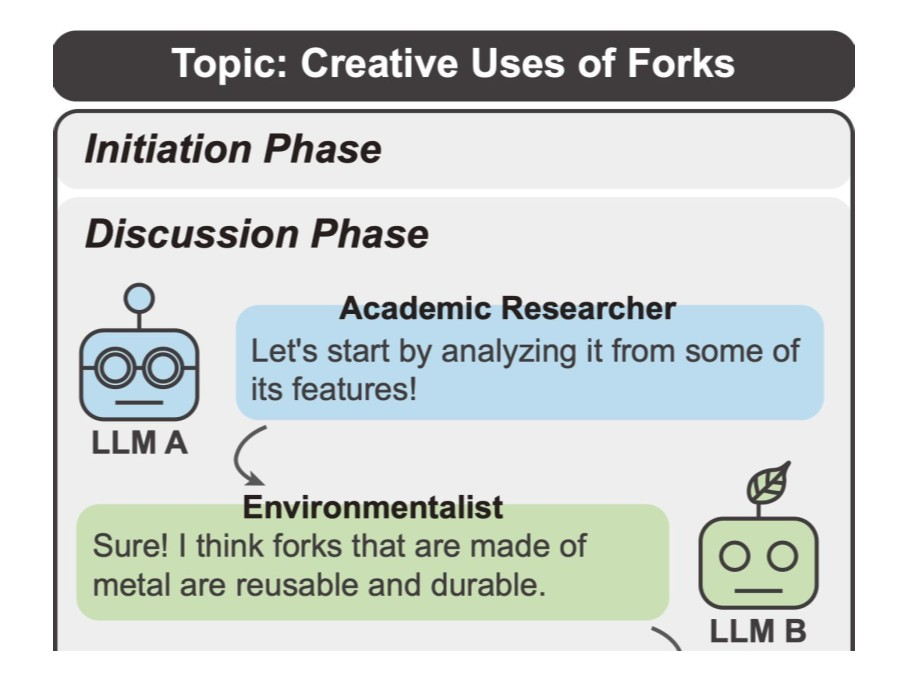
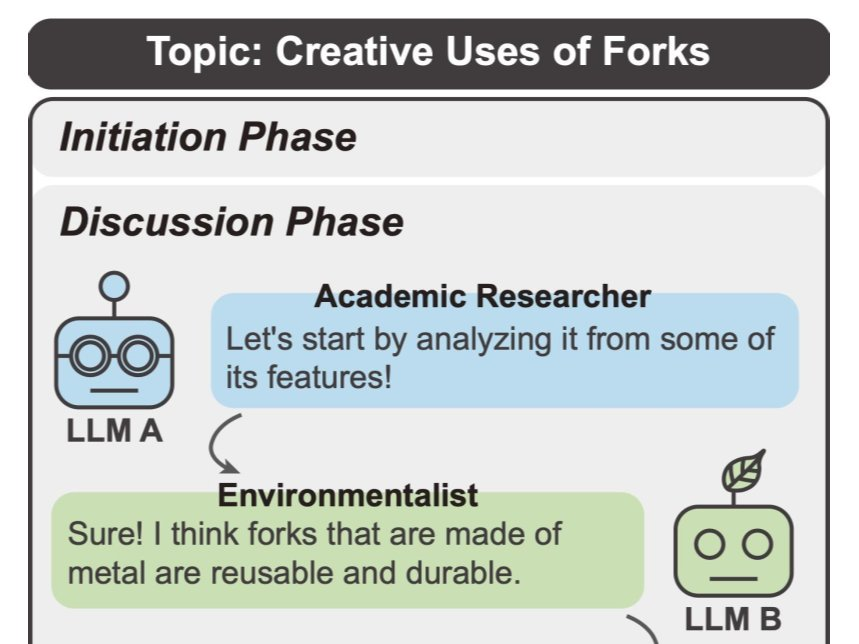
Polish layout from UI review: tap targets, radar labels, wraps, map popup, mobile menu dismissal

Changed region(s): [[0.0303, 0.0311, 0.9686, 1.0]]

diff --git a/src/components/Bouldering.tsx b/src/components/Bouldering.tsx
@@ -31,7 +31,7 @@ function RadarChart() {
   const data = styleRatings.map(({ value }, i) => { const p = point(value, i); return `${p.x},${p.y}` }).join(' ')
 
   return (
-    <svg viewBox={`-48 0 ${size + 96} ${size}`} className="w-full max-w-[420px]" role="img"
+    <svg viewBox={`-64 0 ${size + 128} ${size}`} className="w-full max-w-[440px] [&_text]:text-[23px] sm:[&_text]:text-[14px]" role="img"
       aria-label={`Self-rated climbing style out of 10: ${styleRatings.map(r => `${r.label} ${r.value}`).join(', ')}`}>
       {[1, 2, 3, 4, 5].map(l => <polygon key={l} points={ring(l)} fill="none" stroke="#cfd6cf" strokeWidth="1" />)}
       {styleRatings.map((_, i) => { const p = point(10, i); return <line key={i} x1={c} y1={c} x2={p.x} y2={p.y} stroke="#cfd6cf" strokeWidth="1" /> })}
@@ -43,7 +43,7 @@ function RadarChart() {
         const ly = c + (maxR + 24) * Math.sin(a)
         const anchor = Math.abs(Math.cos(a)) < 0.1 ? 'middle' : Math.cos(a) > 0 ? 'start' : 'end'
         return (
-          <text key={label} x={lx} y={ly} textAnchor={anchor} dominantBaseline="middle" fontSize="13" fontFamily="Hanken Grotesk, sans-serif" fill="#525a55">
+          <text key={label} x={lx} y={ly} textAnchor={anchor} dominantBaseline="middle" fontFamily="Hanken Grotesk, sans-serif" fill="#525a55">
             {label} <tspan fontWeight="700" fill="#1a1d1b">{value}</tspan>
           </text>
         )
@@ -100,12 +100,12 @@ export default function Bouldering() {
         </ul>
       </section>
 
-      <section aria-labelledby="style" className="grid items-center gap-10 pb-20 md:grid-cols-[minmax(0,1fr)_minmax(0,1fr)]">
-        <div>
+      <section aria-labelledby="style" className="grid items-start gap-8 pb-20 lg:grid-cols-[minmax(0,1fr)_minmax(0,1fr)] lg:gap-10">
+        <div className="lg:pt-8">
           <h2 id="style" className="text-forest text-3xl font-bold tracking-[-0.02em]">Style profile</h2>
           <p className="mt-4 text-[17px] text-mute">Self-rated, out of 10.</p>
         </div>
-        <div className="flex justify-center rounded-3xl bg-paper p-6 sm:p-8"><RadarChart /></div>
+        <div className="flex justify-center rounded-3xl bg-paper p-4 sm:p-8"><RadarChart /></div>
       </section>
 
       <section aria-labelledby="gyms">

diff --git a/src/components/ProjectCard.tsx b/src/components/ProjectCard.tsx
@@ -88,7 +88,7 @@ export default function ProjectCard({ project, defaultExpanded = false }: { proj
             {ongoing && <span className="ml-3 align-middle"><Tag tone="butter">Ongoing</Tag></span>}
           </h2>
           {project.affiliation && <p className="mt-1.5 text-[15px] font-medium text-mute">{project.affiliation}</p>}
-          <p className="mt-3 text-lg leading-relaxed">{project.subtitle}</p>
+          <p className="mt-3 max-w-[60ch] text-lg leading-relaxed">{project.subtitle}</p>
 
           <div className="mt-4 space-y-3 max-w-[70ch] text-[17px] leading-relaxed text-mute">
             {project.description.map((para, i) => <p key={i}>{para}</p>)}
@@ -130,16 +130,16 @@ export default function ProjectCard({ project, defaultExpanded = false }: { proj
 
       <div id={sectionsId} className={`expand-content ${expanded ? 'expanded' : ''}`} inert={!expanded}>
         <div className="expand-inner">
-          <dl className="mt-10 grid gap-x-12 gap-y-6 rounded-3xl bg-paper p-6 sm:p-10 md:grid-cols-[160px_minmax(0,1fr)]">
-            {sections.map(({ label, value }) => (
+          <dl className="mt-10 grid gap-x-12 gap-y-1.5 rounded-3xl bg-paper p-6 sm:p-10 md:grid-cols-[160px_minmax(0,1fr)] md:gap-y-6">
+            {sections.map(({ label, value }, i) => (
               <div key={label} className="contents">
-                <dt className="font-display text-lg font-bold text-forest">{label}</dt>
+                <dt className={`font-display text-lg font-bold text-forest md:mt-0 ${i > 0 ? 'mt-5' : ''}`}>{label}</dt>
                 <dd className="max-w-[72ch] text-[17px] leading-[1.7] text-mute">{value}</dd>
               </div>
             ))}
             {opened && project.detailImages && project.detailImages.length > 0 && (
               <div className="contents">
-                <dt className="font-display text-lg font-bold text-forest">Gallery</dt>
+                <dt className="mt-5 font-display text-lg font-bold text-forest md:mt-0">Gallery</dt>
                 <dd className="grid grid-cols-1 gap-3 sm:grid-cols-2">
                   {project.detailImages.map((item, i) => {
                     const src = typeof item === 'string' ? item : item.src

diff --git a/src/components/BoulderingMap.tsx b/src/components/BoulderingMap.tsx
@@ -56,7 +56,7 @@ export default function BoulderingMap() {
               key={key}
               onClick={() => setRegion(key)}
               aria-pressed={active}
-              className={`inline-flex cursor-pointer items-center gap-2 rounded-full px-3.5 py-1.5 text-[15px] font-semibold transition-colors ${
+              className={`inline-flex cursor-pointer items-center gap-2 rounded-full px-3.5 py-2 text-[15px] font-semibold transition-colors ${
                 active ? 'bg-forest text-white' : 'bg-paper text-mute ring-1 ring-inset ring-line hover:text-ink hover:ring-forest'
               }`}
             >
@@ -68,7 +68,7 @@ export default function BoulderingMap() {
         })}
       </div>
 
-      <div className="isolate h-[360px] overflow-hidden rounded-3xl ring-1 ring-line sm:h-[440px]">
+      <div className="isolate h-[360px] overflow-hidden rounded-3xl ring-1 ring-line sm:h-[min(440px,75svh)]">
         {/* One-finger drag would trap page scrolling on phones; zoom buttons and pinch still work there. */}
         <MapContainer
           bounds={REGION_VIEWS.all.bounds}
@@ -118,7 +118,7 @@ export default function BoulderingMap() {
               <ul className="mt-2 border-t border-line">
                 {gyms.filter(g => g.country === country).map(gym => (
                   <li key={gym.name} className="flex items-baseline justify-between gap-4 border-b border-line py-2.5 text-[15px]">
-                    <span className="min-w-0">{gym.name}</span>
+                    <span className="min-w-0">{gym.name.replace(' - ', '\u00a0- ')}</span>
                     <span className="shrink-0 text-mute">{gym.city}</span>
                   </li>
                 ))}

diff --git a/src/components/Research.tsx b/src/components/Research.tsx
@@ -35,13 +35,13 @@ function Bibtex({ id, text }: { id: string; text: string }) {
 
   return (
     <div id={id} className="relative mt-4">
-      <pre className="max-h-72 overflow-auto rounded-2xl bg-paper p-5 pr-24 font-mono text-[13px] leading-relaxed text-mute whitespace-pre-wrap break-words">
+      <pre className="max-h-72 overflow-auto rounded-2xl bg-paper p-5 pt-12 font-mono sm:pt-5 sm:pr-24 text-[13px] leading-relaxed text-mute whitespace-pre-wrap break-words">
         {text}
       </pre>
       <button
         type="button"
         onClick={copy}
-        className="absolute top-3 right-3 cursor-pointer rounded-full bg-sage px-3 py-1 text-[13px] font-semibold text-forest ring-1 ring-inset ring-line transition-colors hover:ring-forest"
+        className="absolute top-3 right-3 cursor-pointer rounded-full bg-sage px-3 py-1.5 text-[13px] font-semibold text-forest ring-1 ring-inset ring-line transition-colors hover:ring-forest"
       >
         {copied ? 'Copied' : 'Copy'}
       </button>
@@ -99,7 +99,7 @@ export default function Research() {
                     onClick={() => setOpenBibtex(openBibtex === pub.id ? null : pub.id)}
                     aria-expanded={openBibtex === pub.id}
                     aria-controls={`${pub.id}-bibtex`}
-                    className="cursor-pointer text-forest hover:text-tomato transition-colors"
+                    className="-my-2 cursor-pointer py-2 text-forest hover:text-tomato transition-colors"
                   >
                     {openBibtex === pub.id ? 'Hide BibTeX' : 'BibTeX'}
                   </button>

diff --git a/src/components/Hero.tsx b/src/components/Hero.tsx
@@ -11,7 +11,8 @@ export default function Hero() {
           Shou-Jen (Lawrance) Chen
         </h1>
         <p className="mt-5 text-lg sm:text-xl font-medium">
-          Software Development Engineer at Amazon · UC Berkeley EECS MEng
+          Software Development Engineer at Amazon ·{' '}
+          <span className="whitespace-nowrap">UC Berkeley EECS MEng</span>
         </p>
 
         <div className="mt-6 max-w-[64ch] space-y-4 text-mute text-[17px] sm:text-lg leading-[1.65]">
@@ -43,10 +44,10 @@ export default function Hero() {
           >
             Resume PDF <icons.download />
           </a>
-          <ul className="flex flex-wrap items-center gap-x-4 gap-y-2 text-[15px] font-semibold text-forest sm:ml-3">
-            <li><a href={`mailto:${EMAIL}`} className="hover:text-tomato transition-colors">Email</a></li>
+          <ul className="flex flex-wrap items-center gap-x-4 text-[15px] font-semibold text-forest xl:ml-3">
+            <li><a href={`mailto:${EMAIL}`} className="inline-flex min-h-11 items-center hover:text-tomato transition-colors">Email</a></li>
             {socials.map(({ label, href }) => (
-              <li key={label}><a href={href} {...ext} className="hover:text-tomato transition-colors">{label}</a></li>
+              <li key={label}><a href={href} {...ext} className="inline-flex min-h-11 min-w-6 items-center justify-center hover:text-tomato transition-colors">{label}</a></li>
             ))}
           </ul>
         </div>

diff --git a/src/components/Footer.tsx b/src/components/Footer.tsx
@@ -38,10 +38,10 @@ export default function Footer() {
 
         <div className="mt-14 flex flex-col-reverse gap-6 border-t border-white/15 pt-6 text-[15px] sm:flex-row sm:items-center sm:justify-between">
           <p>© {new Date().getFullYear()} Shou-Jen (Lawrance) Chen</p>
-          <ul className="flex flex-wrap gap-x-6 gap-y-2 font-medium">
+          <ul className="flex flex-wrap gap-x-6 font-medium">
             {socials.map(({ label, href, Icon }) => (
               <li key={label}>
-                <a href={href} target="_blank" rel="noopener noreferrer" className="inline-flex items-center gap-2 text-white hover:text-butter transition-colors">
+                <a href={href} target="_blank" rel="noopener noreferrer" className="inline-flex items-center gap-2 py-2.5 text-white hover:text-butter transition-colors">
                   <Icon size={label === 'X' ? 14 : 16} /> {label}
                 </a>
               </li>

diff --git a/src/components/Header.tsx b/src/components/Header.tsx
@@ -31,8 +31,19 @@ export default function Header() {
       if (menuRef.current?.contains(document.activeElement)) toggleRef.current?.focus()
       setMenuOpen(false)
     }
+    // Close when the page scrolls or a tap lands outside the header.
+    const onScroll = () => setMenuOpen(false)
+    const onPointer = (e: PointerEvent) => {
+      if (!(e.target as Element).closest('header')) setMenuOpen(false)
+    }
     window.addEventListener('keydown', onKey)
-    return () => window.removeEventListener('keydown', onKey)
+    window.addEventListener('scroll', onScroll, { passive: true })
+    document.addEventListener('pointerdown', onPointer)
+    return () => {
+      window.removeEventListener('keydown', onKey)
+      window.removeEventListener('scroll', onScroll)
+      document.removeEventListener('pointerdown', onPointer)
+    }
   }, [menuOpen])
 
   return (

diff --git a/src/components/BoulderingMap.css b/src/components/BoulderingMap.css
@@ -34,7 +34,7 @@
   display: flex;
   flex-direction: column;
   gap: 2px;
-  padding: 10px 14px;
+  padding: 10px 30px 10px 14px;
 }
 
 .bouldering-popup strong {
@@ -52,7 +52,12 @@
   background: var(--color-paper) !important;
   color: var(--color-forest) !important;
   border-color: var(--color-line) !important;
-  line-height: 26px !important;
+}
+
+.leaflet-touch .leaflet-bar a {
+  width: 40px;
+  height: 40px;
+  line-height: 40px;
 }
 
 .leaflet-bar a:hover {
@@ -71,6 +76,13 @@
   color: var(--color-mute) !important;
   font-size: 13px !important;
   border-radius: 6px 0 0 0 !important;
+}
+
+@media (max-width: 639px) {
+  .leaflet-control-attribution {
+    font-size: 11px !important;
+    line-height: 1.4;
+  }
 }
 
 .leaflet-control-attribution a {

diff --git a/src/components/Experience.tsx b/src/components/Experience.tsx
@@ -14,7 +14,7 @@ const industryItems = [
 const researchItems = [
   { role: 'Research Assistant', org: 'NTU Robot Learning Lab · Shao-Hua Sun', dates: 'Oct 2023 – Jun 2025' },
   { role: 'Undergraduate Researcher', org: 'NTU Speech Processing & ML Lab · Hung-yi Lee', dates: 'Jul 2023 – Jun 2025' },
-  { role: 'Undergraduate Researcher', org: 'NTU Wireless & Mobile Networking Lab\u00a0· Hung\u2011Yu\u00a0Wei', dates: 'Jan 2023 – Jan 2024' },
+  { role: 'Undergraduate Researcher', org: 'NTU Wireless & Mobile Networking Lab · Hung\u2011Yu\u00a0Wei', dates: 'Jan 2023 – Jan 2024' },
 ]
 
 const papers = publications.filter(p => !p.tags.includes('Review'))

diff --git a/src/data/projects.ts b/src/data/projects.ts
@@ -22,7 +22,7 @@ export interface Project {
 export const projects: Project[] = [
   {
     id: 'risk-triggered-latent-correction',
-    title: 'Risk-Triggered Latent-Space Corrections for Near-Failure Recovery in Deep RL',
+    title: 'Risk\u2011Triggered Latent\u2011Space Corrections for Near\u2011Failure Recovery in Deep RL',
     affiliation: 'UC Berkeley · CS 285 Final Project',
     subtitle: 'Decoupled SAC with risk-triggered latent correction achieving 100% success on Meta-World pick-place-v3, 25–29% more sample-efficient than baseline SAC',
     tags: ['Deep RL', 'SAC', 'Robotics', 'Meta-World', 'Latent Space', 'PyTorch', 'Research'],

diff --git a/src/components/Projects.tsx b/src/components/Projects.tsx
@@ -28,7 +28,7 @@ export default function Projects() {
   const filtered = activeTag ? projects.filter(p => p.tags.includes(activeTag)) : projects
 
   const pill = (active: boolean) =>
-    `cursor-pointer rounded-full px-3.5 py-1.5 text-[15px] font-semibold transition-colors ${
+    `cursor-pointer rounded-full px-3.5 py-2 text-[15px] font-semibold transition-colors ${
       active ? 'bg-forest text-white' : 'bg-paper text-mute ring-1 ring-inset ring-line hover:text-ink hover:ring-forest'
     }`
 

diff --git a/src/components/FeaturedProjects.tsx b/src/components/FeaturedProjects.tsx
@@ -26,7 +26,7 @@ export default function FeaturedProjects() {
         </Link>
       </div>
 
-      <ul className="mt-6 grid gap-x-6 gap-y-10 sm:grid-cols-2 lg:grid-cols-3">
+      <ul className="mt-6 grid gap-x-6 gap-y-10 md:grid-cols-3 md:gap-x-5 lg:gap-x-6">
         {featured.map(({ project, field, tone }) => (
           <li key={project.id}>
             <Link to={`/work#${project.id}`} className="group block">
